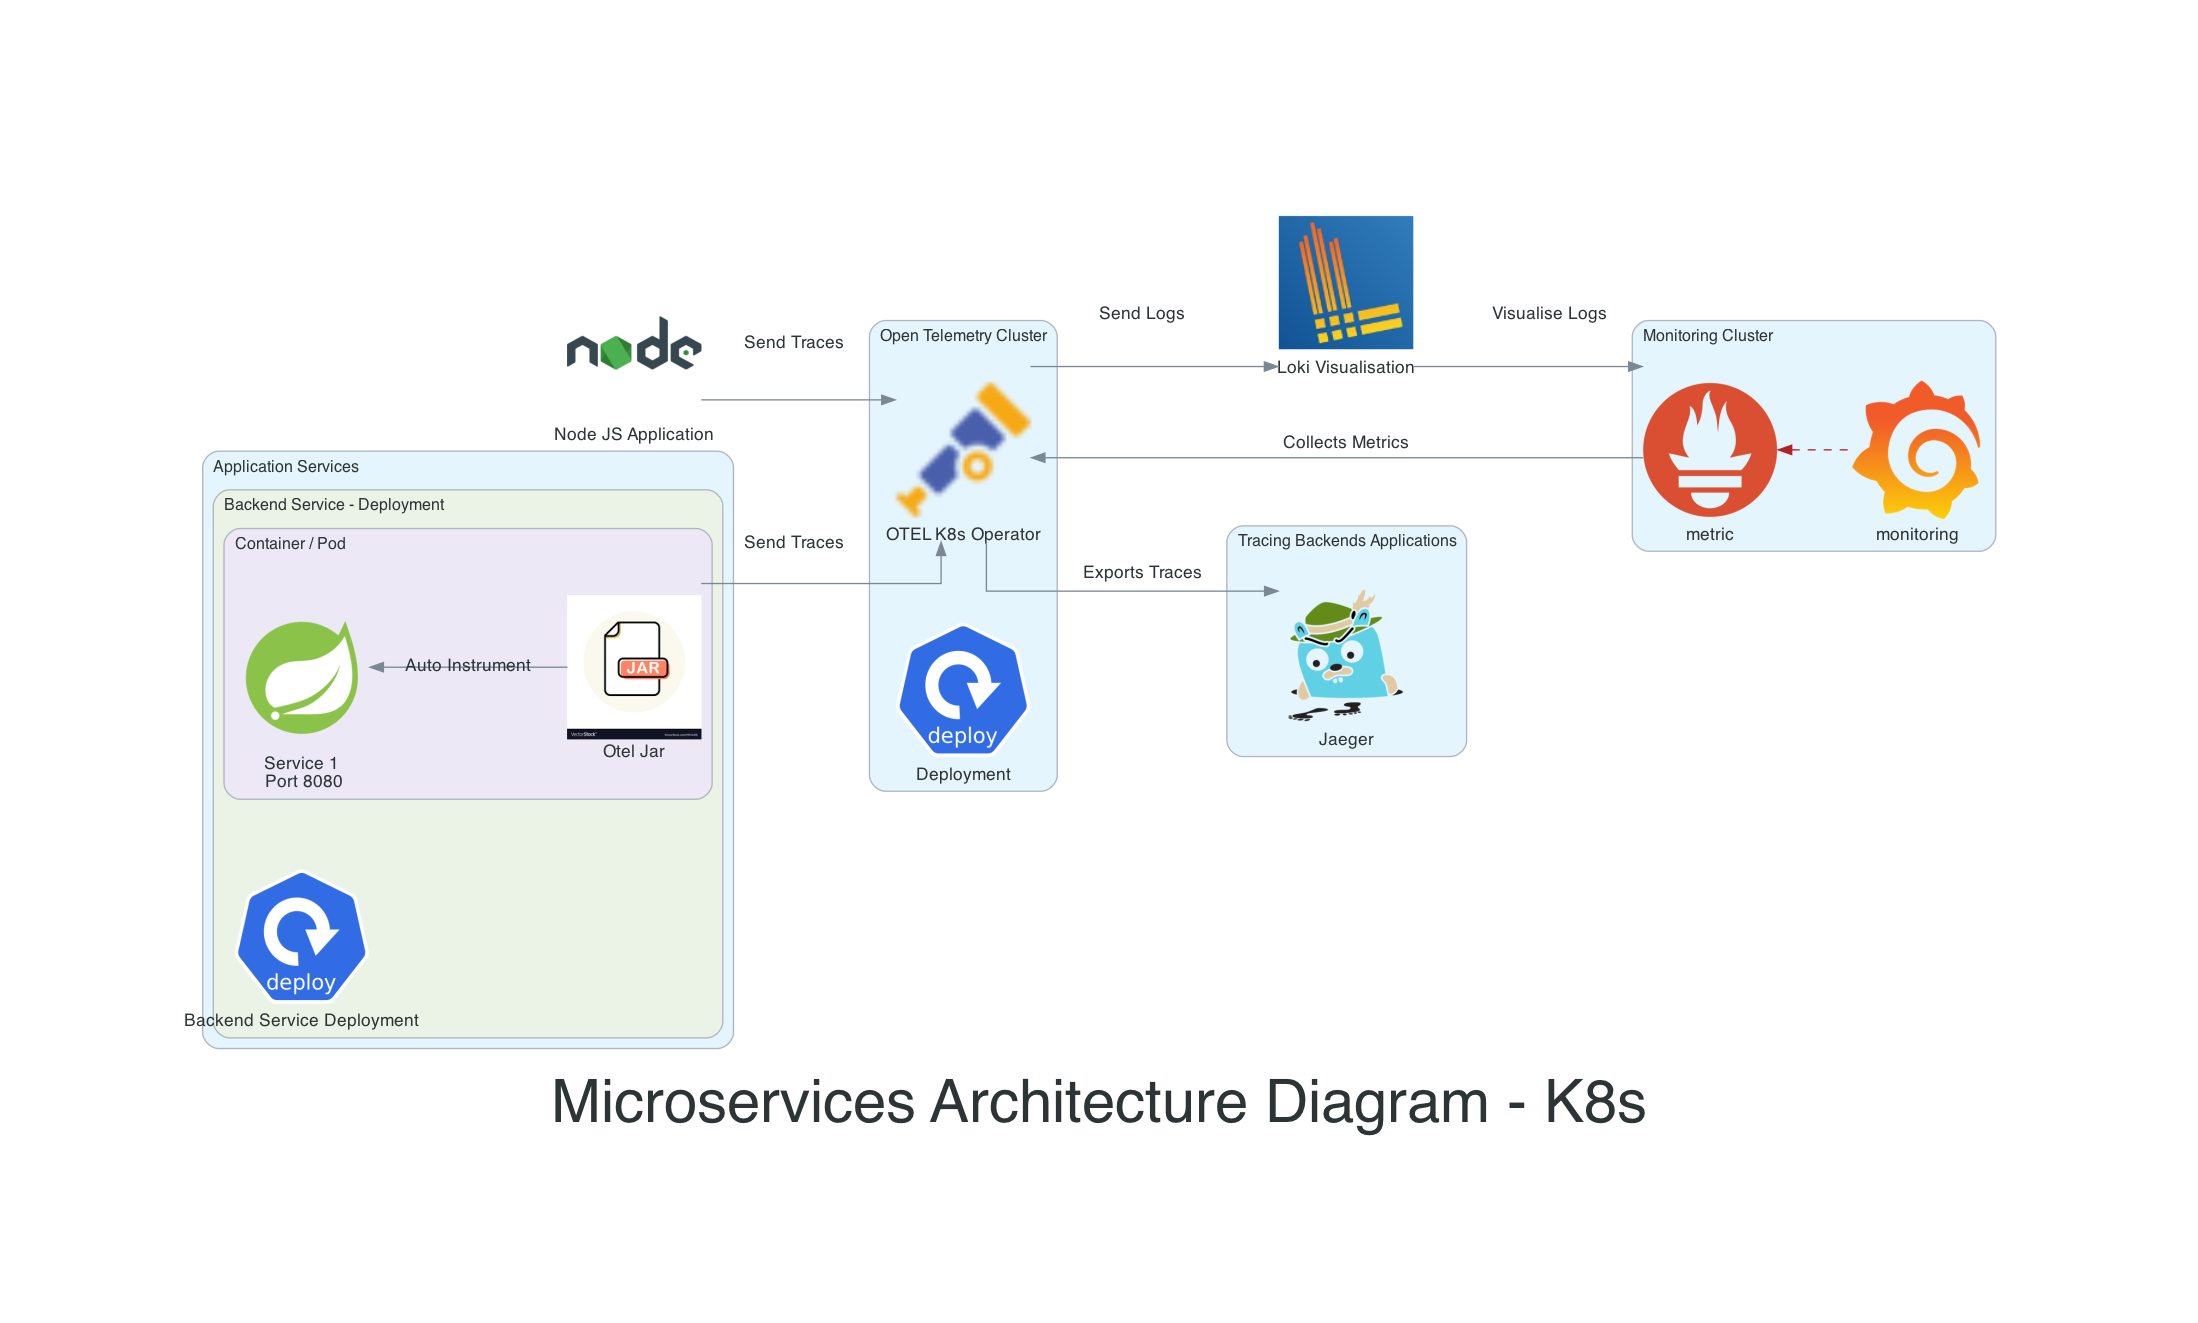
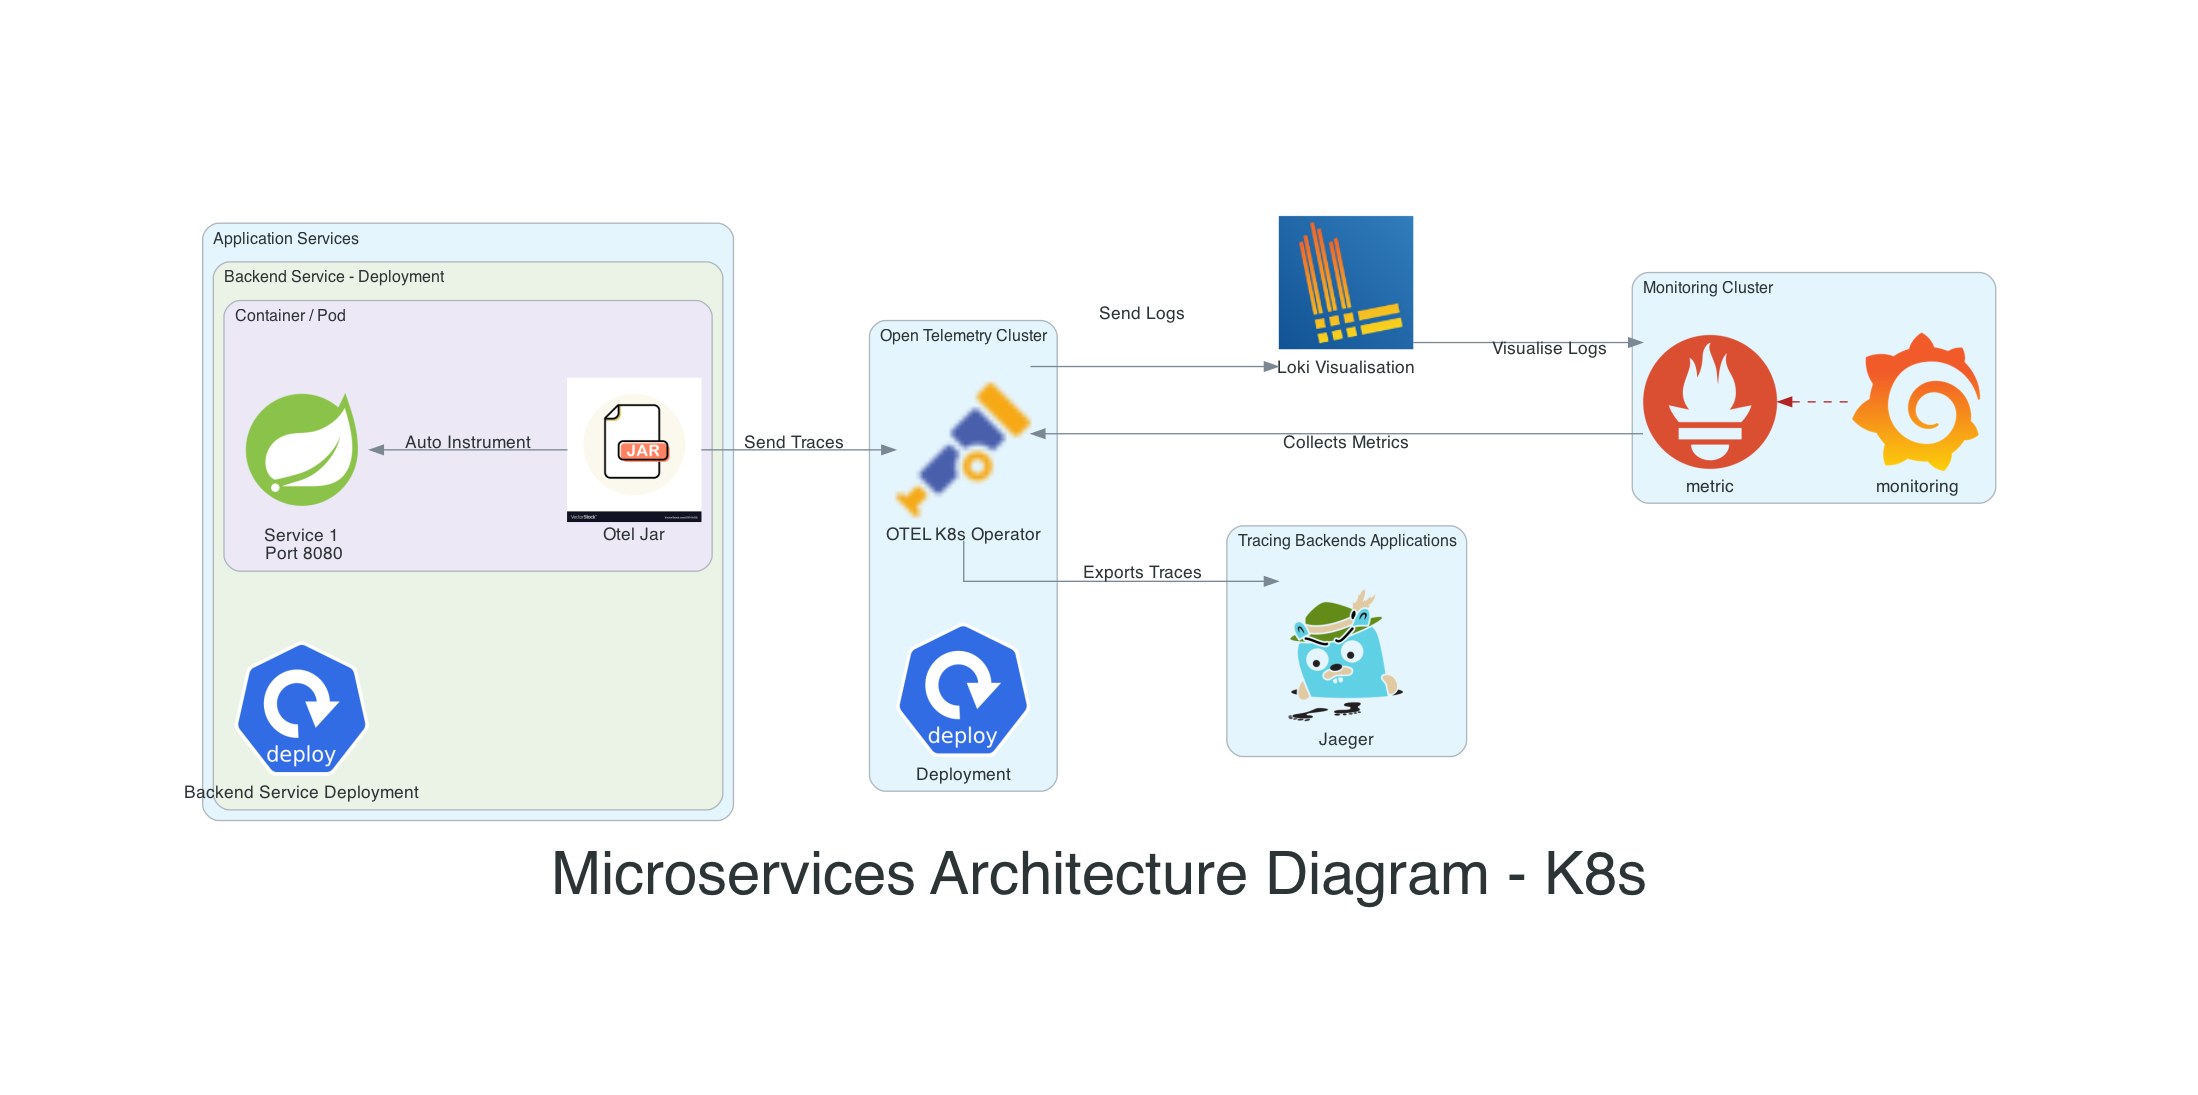
Updated Diagram

diff --git a/documentation/daac/application_architecture/application-architecture-all-service.py b/documentation/daac/application_architecture/application-architecture-all-service.py
@@ -24,26 +24,27 @@ class ApplicationDeployment:
     def service(self) -> Deployment:
         cluster_name = self.service_name + " - Deployment"
         with Cluster(cluster_name):
-            with Cluster("Container / Pod"):
-                self.otel_jar = otel_agent_jar = Custom("Otel Jar", "../images/jarfile.png")
-                service = Spring("Service 1\n Port " + self.port)
-                otel_agent_jar = self.otel_jar
-                pod_backend = [otel_agent_jar, service]
-                service << Edge(label="Auto Instrument") << self.otel_jar
-            deployment = Deployment(self.service_name + " Deployment")
-            return deployment
+            # with Cluster("Container / Pod"):
+            # self.otel_jar = otel_agent_jar = Custom("Otel Jar", "../images/jarfile.png")
+            service = Spring("Service 1\n Port " + self.port)
+            # otel_agent_jar = self.otel_jar
+            # pod_backend = [otel_agent_jar, service]
+            # service << Edge(label="Auto Instrument") << self.otel_jar
+            # deployment = Deployment(self.service_name + " Deployment")
+            return service
 
 
-with Diagram(name="Microservices Architecture Diagram", show=False, graph_attr=graph_attr):
+
+with Diagram(name="Microservices Architecture Diagram - All", show=False, graph_attr=graph_attr):
     nodeJSwebapp = NodeJS("Node JS Application")
 
     with Cluster("Open Telemetry Cluster"):
         otel_collector = Custom("OTEL Collector", "../images/otel.png")
         otel_deployment = Deployment("Deployment")
 
-    with Cluster("Monitoring Cluster"):
-        metrics = Prometheus("metric")
-        metrics << Edge(color="firebrick", style="dashed") << Grafana("monitoring")
+    # with Cluster("Monitoring Cluster"):
+    #     metrics = Prometheus("metric")
+    #     metrics << Edge(color="firebrick", style="dashed") << Grafana("monitoring")
 
     with Cluster("Tracing Backends Applications"):
         jaeger = Jaeger("Jaeger")
@@ -52,27 +53,39 @@ with Diagram(name="Microservices Architecture Diagram", show=False, graph_attr=g
 
         backend_app = ApplicationDeployment("Backend Service", "8080")
         backend_deployment = backend_app.service()
-        backend_app.otel_jar >> Edge(label="Send Traces") >> otel_collector
+        # backend_app.otel_jar >> Edge(label="Send Traces") >> otel_collector
 
         authentication_app = ApplicationDeployment("Authentication Service", "8081")
         authentication_deployment = authentication_app.service()
-        authentication_app.otel_jar >> Edge(label="Send Traces") >> otel_collector
+        authentication_deployment >> Edge(label="Send Traces") >> otel_collector
 
         account_app = ApplicationDeployment("Accounts Service", "8082")
         account_deployment = account_app.service()
-        account_app.otel_jar >> Edge(label="Send Traces") >> otel_collector
+        # account_app.otel_jar >> Edge(label="Send Traces") >> otel_collector
 
         forex_app = ApplicationDeployment("Forex Service", "8083")
         forex_deployment = forex_app.service()
-        forex_app.otel_jar >> Edge(label="Send Traces") >> otel_collector
+        # forex_app.otel_jar >> Edge(label="Send Traces") >> otel_collector
 
         txn_app = ApplicationDeployment("Transaction Service", "8084")
         txn_deployment = txn_app.service()
-        txn_app.otel_jar >> Edge(label="Send Traces") >> otel_collector
+        # txn_app.otel_jar >> Edge(label="Send Traces") >> otel_collector
 
-    otel_collector << Edge(label="Collects Metrics") << metrics
-    nodeJSwebapp >> Edge(label="Send Traces") >> otel_collector
+
+        application_services = [backend_app, authentication_app, account_app, forex_app, txn_app, nodeJSwebapp]
+
+    # otel_collector << Edge(label="Collects Metrics") << metrics
     otel_collector >> Edge(label="Exports Traces") >> jaeger
+    nodeJSwebapp >> Edge(label="Send Traces") >> otel_collector
+
+    backend_deployment >> Edge(label="REST API") >> authentication_deployment
+    backend_deployment >> Edge(label="REST API") >> account_deployment
+    backend_deployment >> Edge(label="REST API") >> txn_deployment
+
+
+
+
+
 
 
 

diff --git a/documentation/daac/application_architecture/application-architecture-k8s.py b/documentation/daac/application_architecture/application-architecture-k8s.py
@@ -36,7 +36,7 @@ class ApplicationDeployment:
 
 
 with Diagram(name="Microservices Architecture Diagram - K8s", show=False, graph_attr=graph_attr):
-    nodeJSwebapp = NodeJS("Node JS Application")
+    # nodeJSwebapp = NodeJS("Node JS Application")
     loki = Custom("Loki Visualisation", "../images/loki.png")
 
     with Cluster("Open Telemetry Cluster"):
@@ -73,7 +73,7 @@ with Diagram(name="Microservices Architecture Diagram - K8s", show=False, graph_
         # txn_app.otel_jar >> Edge(label="Send Traces") >> otel_collector
 
     otel_collector << Edge(label="Collects Metrics") << metrics
-    nodeJSwebapp >> Edge(label="Send Traces") >> otel_collector
+    # nodeJSwebapp >> Edge(label="Send Traces") >> otel_collector
     otel_collector >> Edge(label="Exports Traces") >> jaeger
     otel_collector >> Edge(label="Send Logs") >> loki
     loki >> Edge(label="Visualise Logs") >> metrics
